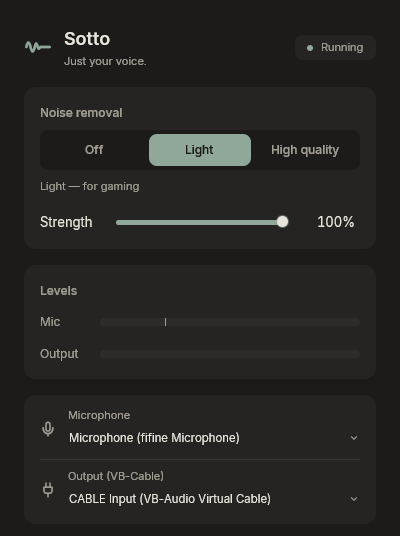
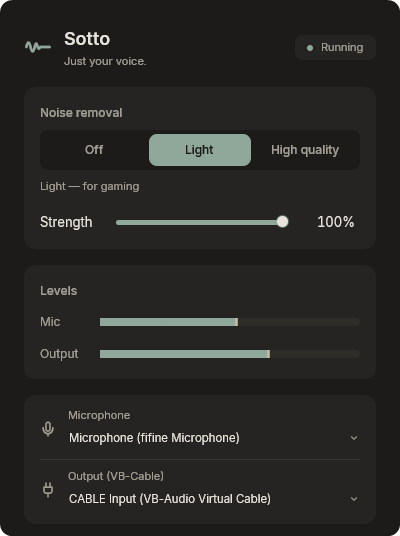
README: screenshot with live meters and rounded corners

diff --git a/README.md b/README.md
@@ -13,7 +13,7 @@ so Discord, games and calls hear only you. Small, CPU-only, quiet while you play
 
 <br>
 
-<img src="assets/readme/sotto-window.png" width="400" alt="The Sotto window: noise removal set to Light, strength 100%, level meters, the microphone and the VB-Cable output">
+<img src="assets/readme/sotto-window.png" width="400" alt="The Sotto window: noise removal set to Light, strength 100%, level meters showing a voice, the microphone and the VB-Cable output">
 
 </div>
 
